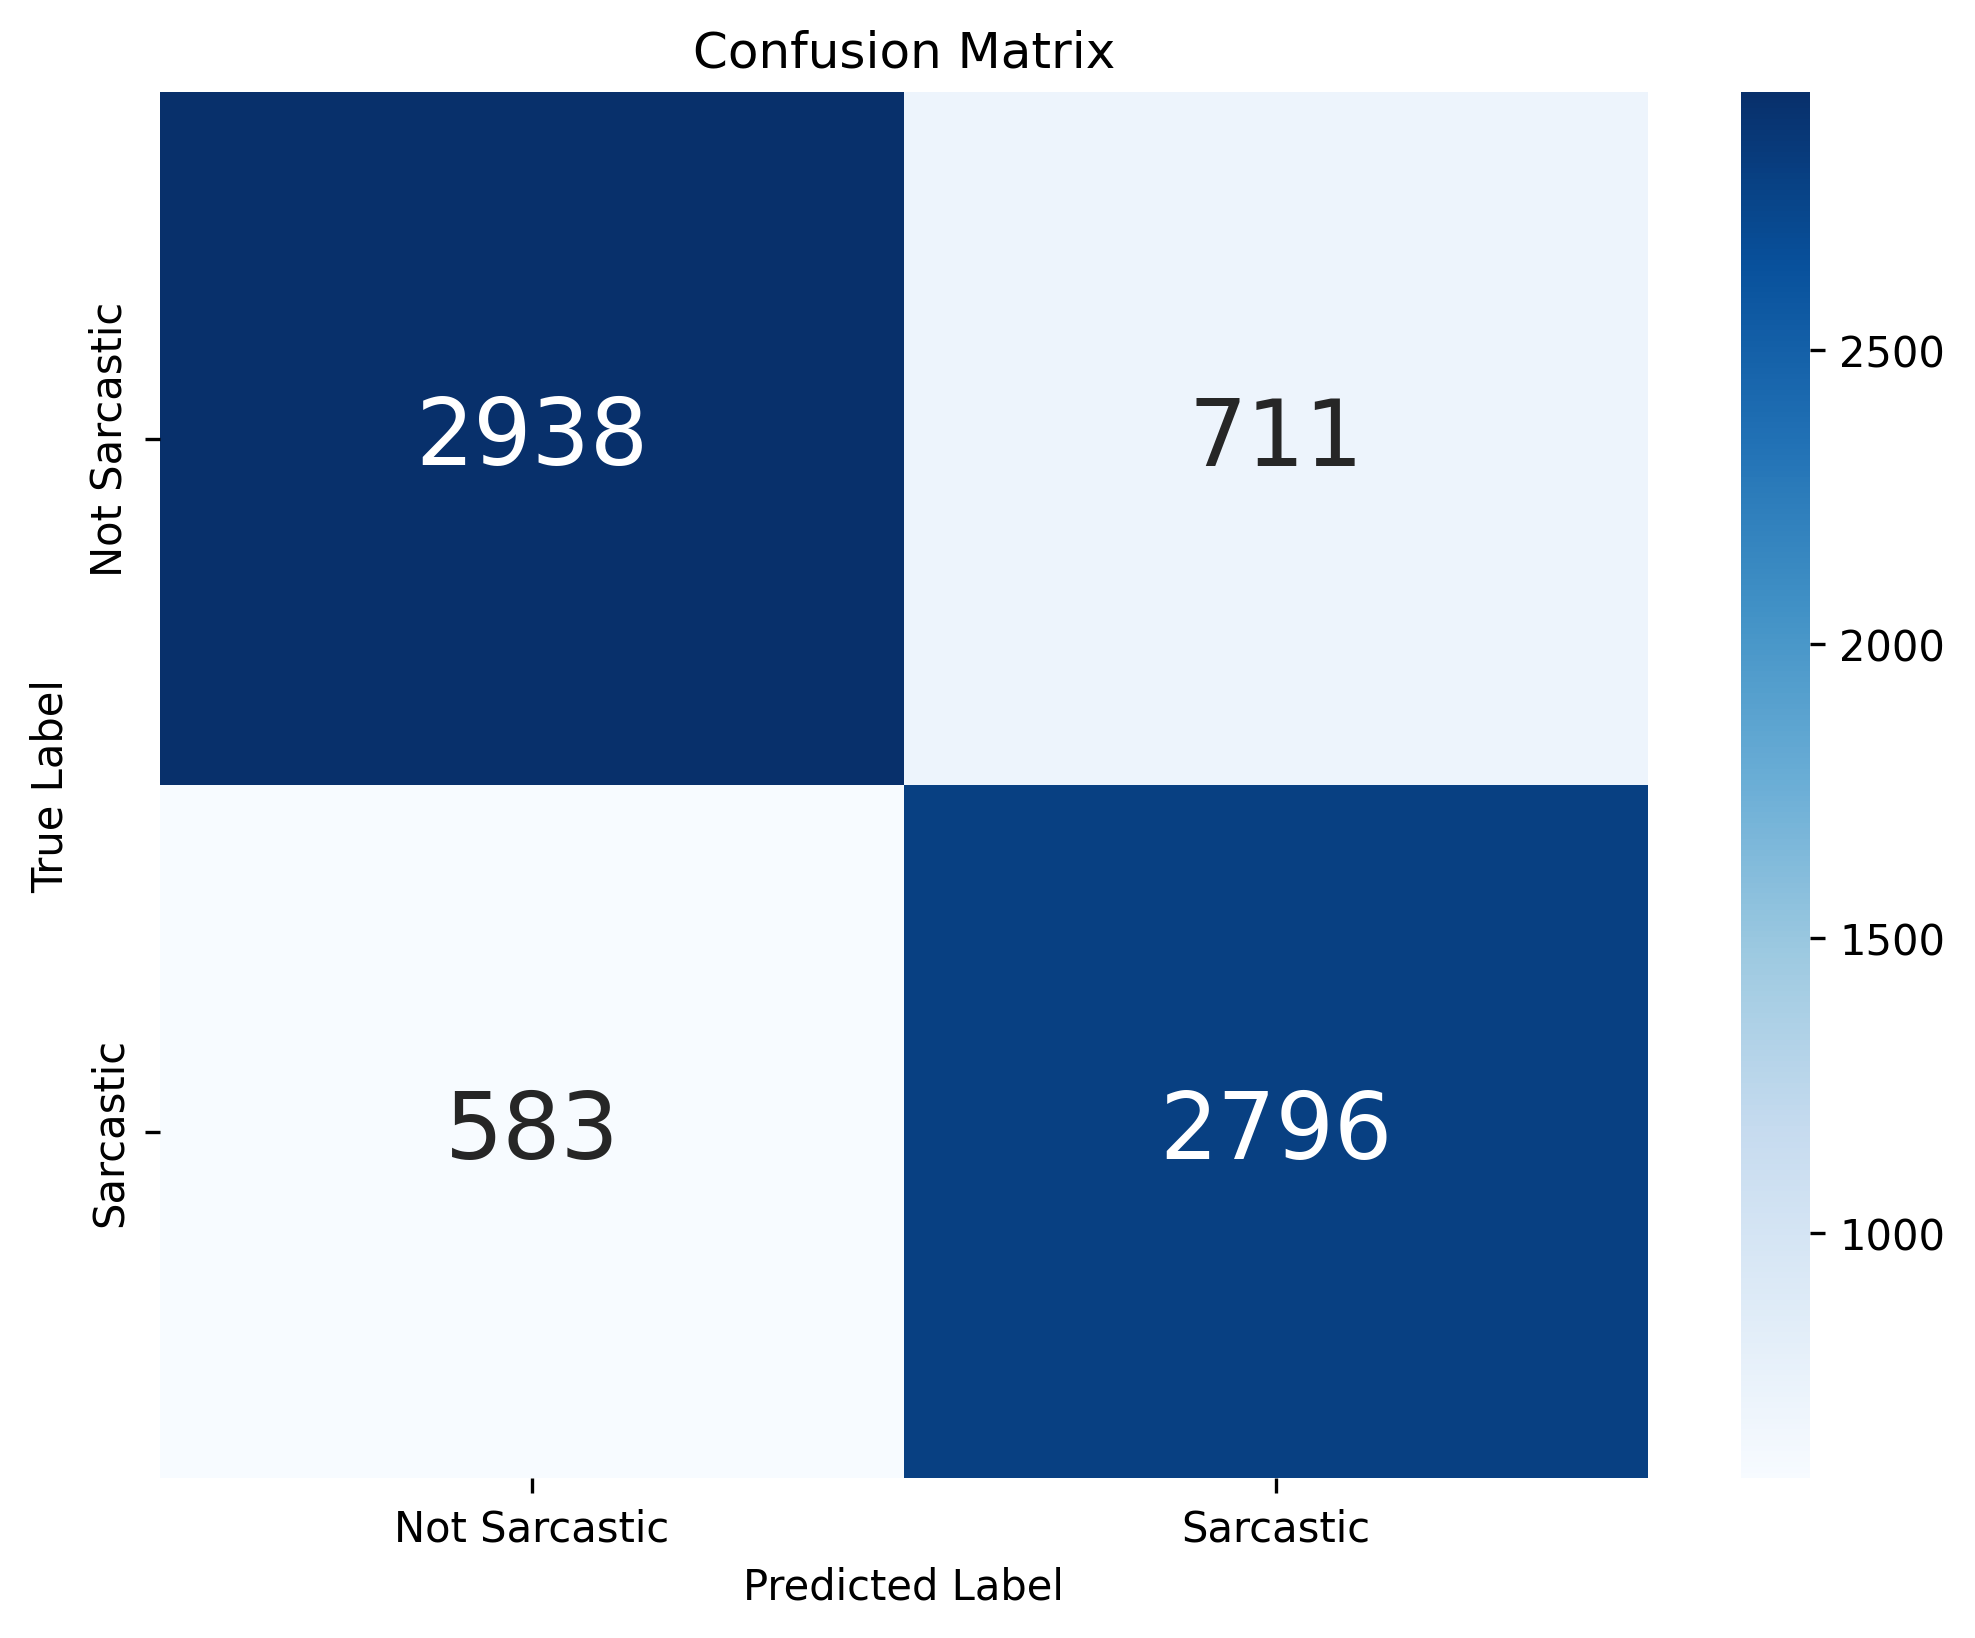
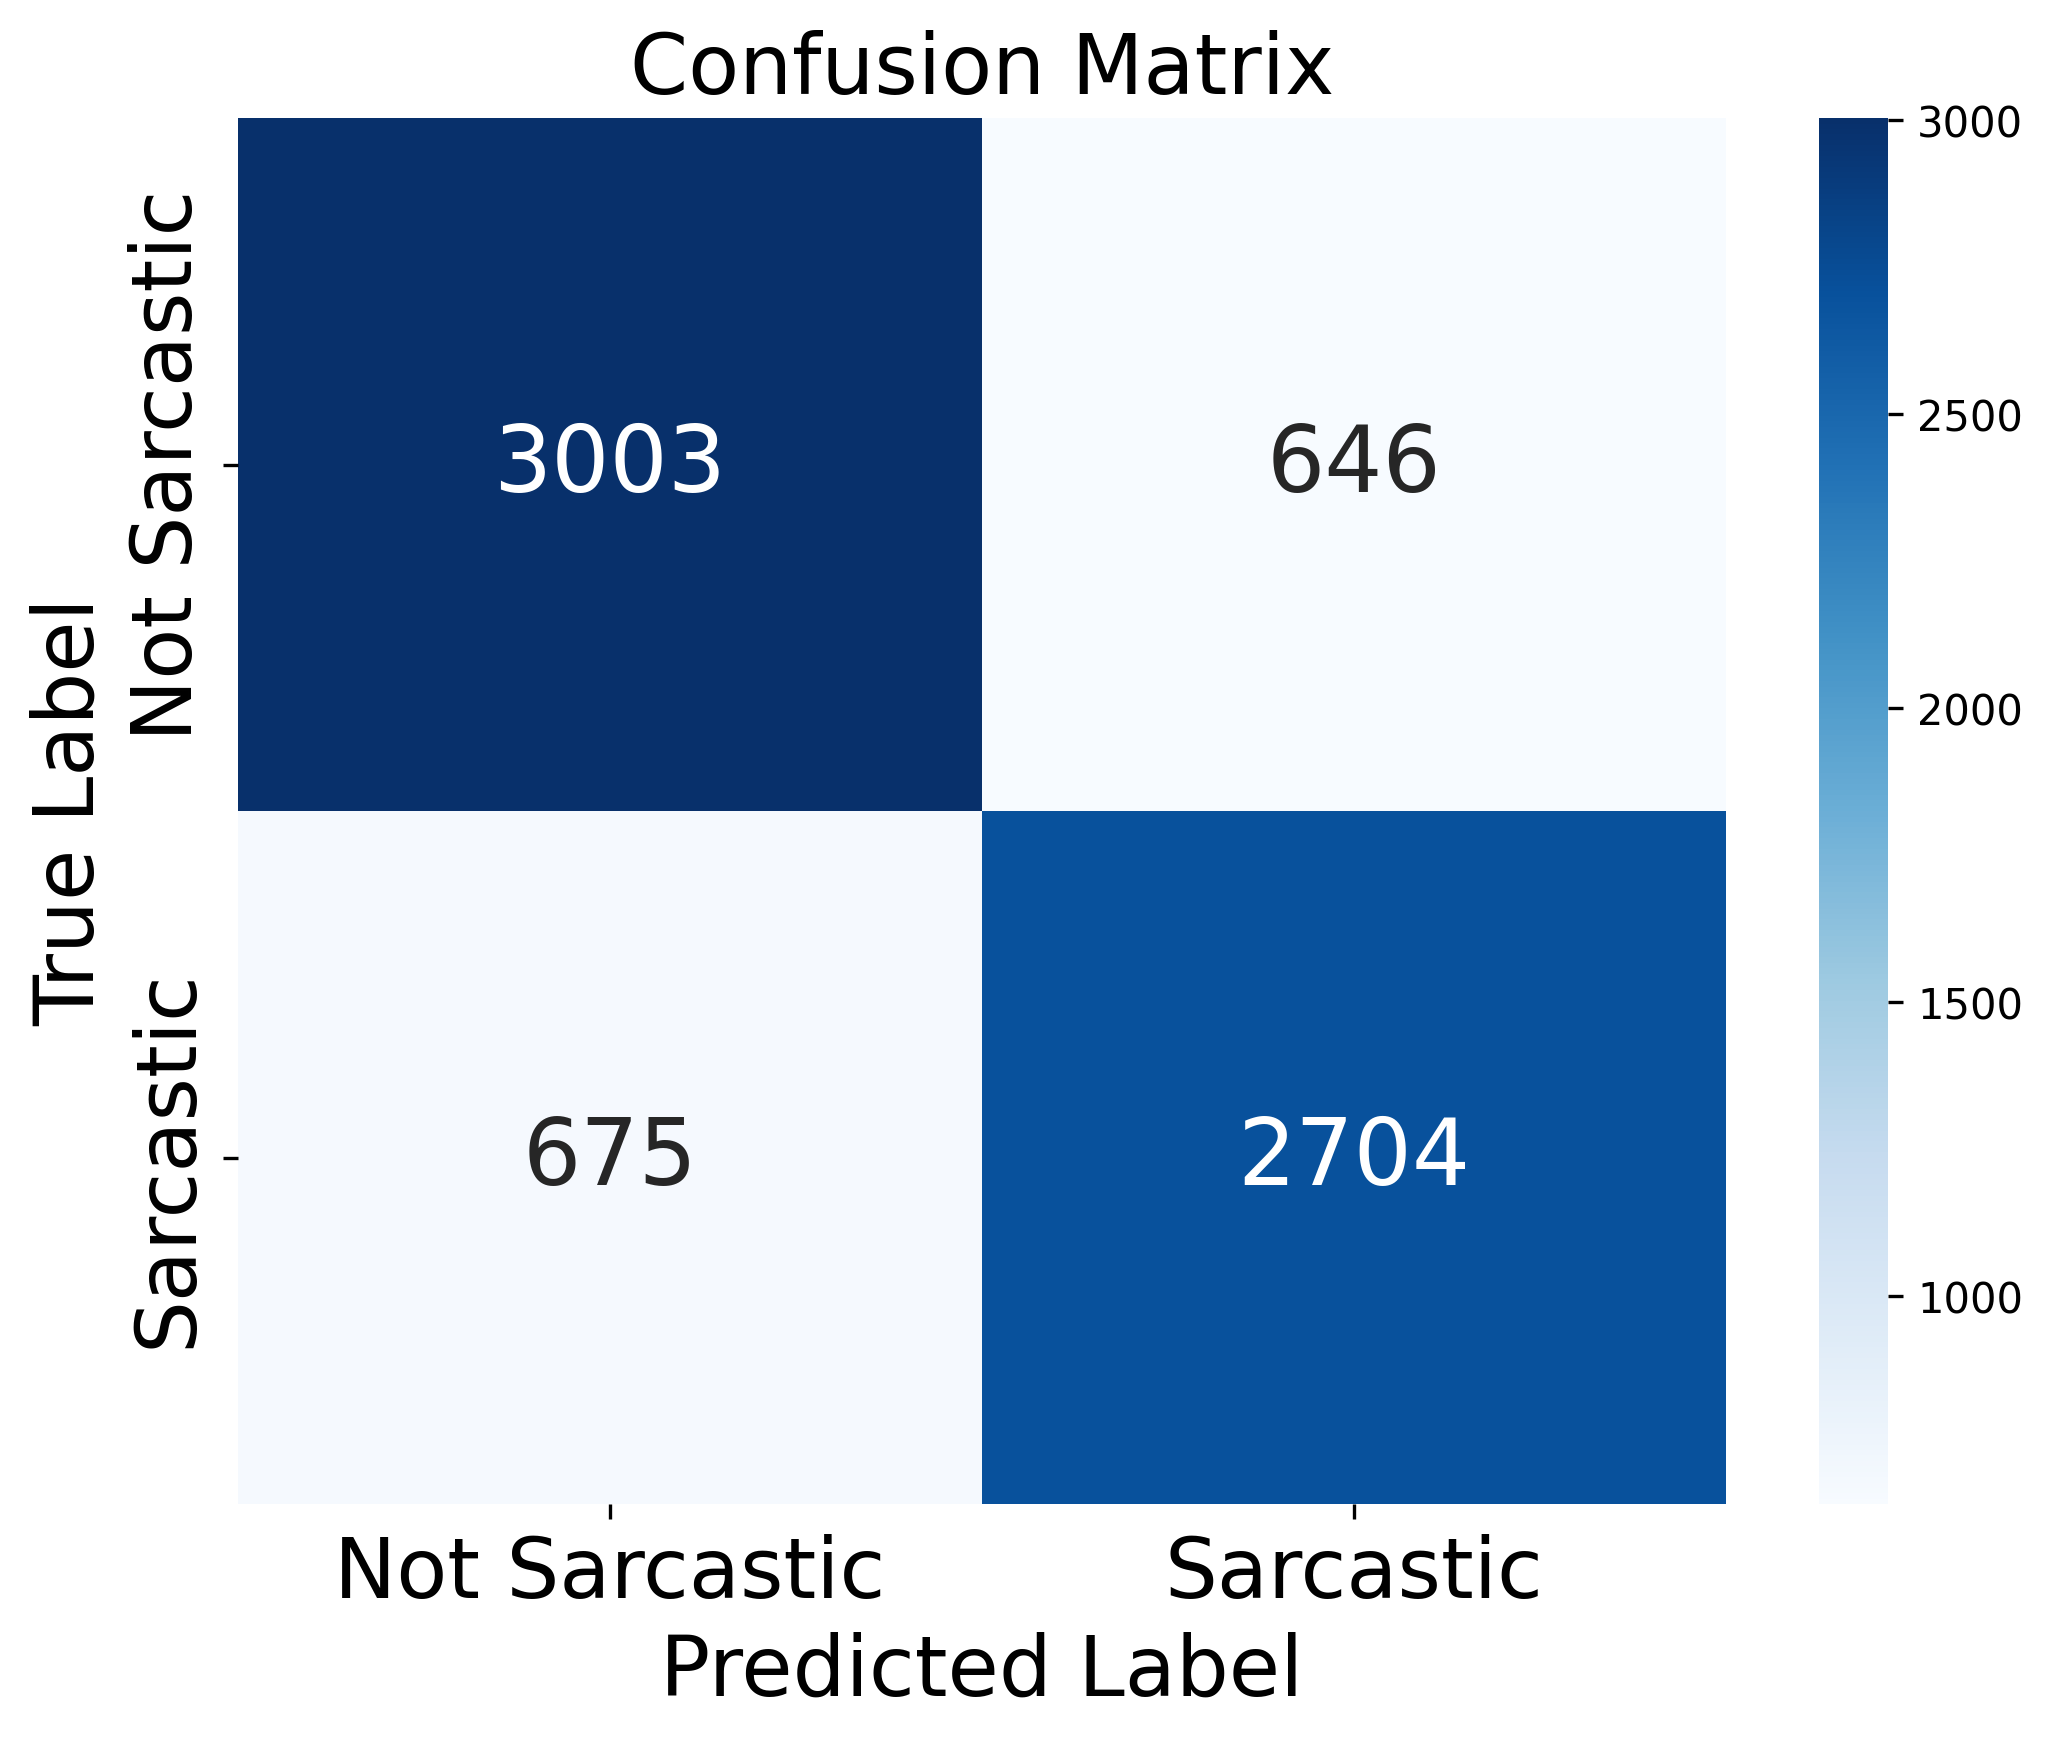
Changed Visuals for QLSTM

diff --git a/Quantum-LSTM/qlstm.py b/Quantum-LSTM/qlstm.py
@@ -155,9 +155,11 @@ sns.heatmap(cm, annot=True, fmt='d', cmap='Blues',
            xticklabels=['Not Sarcastic', 'Sarcastic'],
            yticklabels=['Not Sarcastic', 'Sarcastic'],
            annot_kws={"size": 22})
-plt.title('Confusion Matrix')
-plt.ylabel('True Label')
-plt.xlabel('Predicted Label')
+plt.title('Confusion Matrix', fontsize=20)
+plt.ylabel('True Label', fontsize=20)
+plt.xlabel('Predicted Label', fontsize=20)
+plt.xticks(fontsize=20)
+plt.yticks(fontsize=20)
 plt.savefig(os.path.join(OUTPUT_DIR, 'confusion_matrix.png'), dpi=300, bbox_inches='tight')
 plt.close()
 
